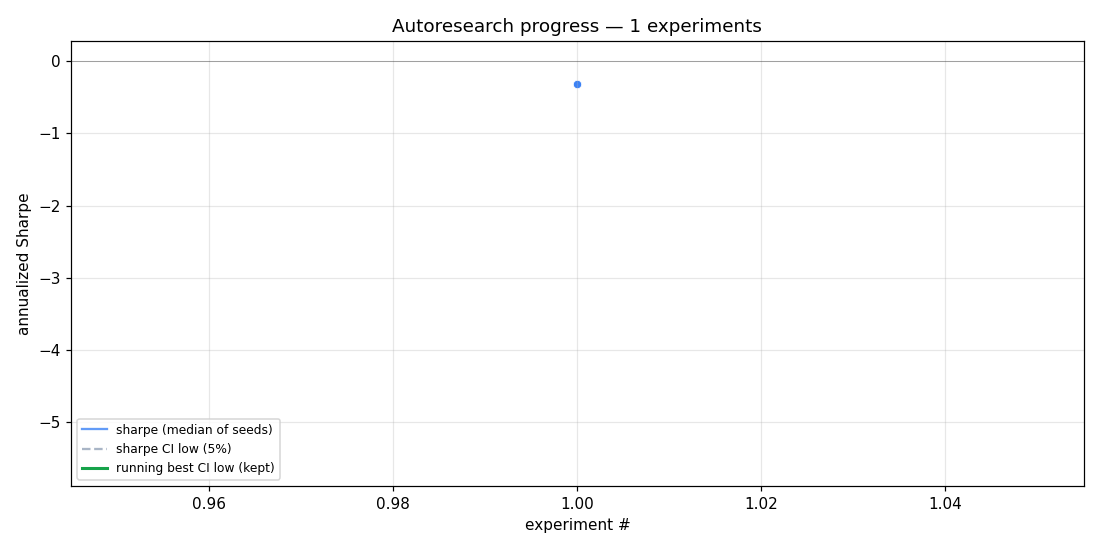
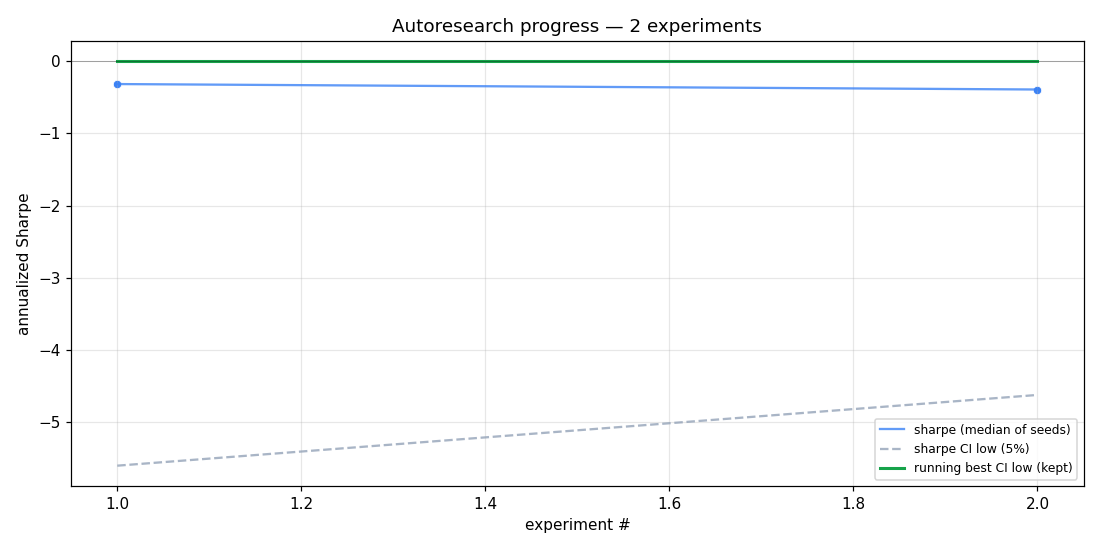
exp1 KEEP: HOLD bias 1.0 — ci_low -5.61→-4.63, DD -9.18%→-0.31%

diff --git a/README.md b/README.md
@@ -6,8 +6,8 @@ Karpathy-style [autoresearch](https://github.com/karpathy/autoresearch) harness,
 
 <!-- RESULTS_START -->
 
-_Last updated: 2026-04-30 05:25 UTC_  
-_Total experiments: **1**  ·  kept: **0**  ·  latest commit: `4a6dea7`_
+_Last updated: 2026-04-30 05:39 UTC_  
+_Total experiments: **2**  ·  kept: **0**  ·  latest commit: `aeff147`_
 
 ### Latest experiment
 
@@ -15,14 +15,14 @@ _Total experiments: **1**  ·  kept: **0**  ·  latest commit: `4a6dea7`_
 
 | metric | value |
 |---|---|
-| Sharpe (median over seeds) | **-0.316** |
-| Sharpe — bootstrap CI low (5%) | **-5.608** |
-| Sharpe — bootstrap CI high (95%) | +4.076 |
-| Max drawdown | -9.18% |
-| Net PnL | $-10.56 (-0.021%) |
-| Trades | 5 |
-| Fees / slippage | $5.00 / $1.00 |
-| Wall time | 506.0s |
+| Sharpe (median over seeds) | **-0.391** |
+| Sharpe — bootstrap CI low (5%) | **-4.627** |
+| Sharpe — bootstrap CI high (95%) | +5.067 |
+| Max drawdown | -0.31% |
+| Net PnL | $-13.06 (-0.026%) |
+| Trades | 7 |
+| Fees / slippage | $7.00 / $1.40 |
+| Wall time | 514.1s |
 | Seeds completed | 3 |
 
 ### Progress over all experiments
